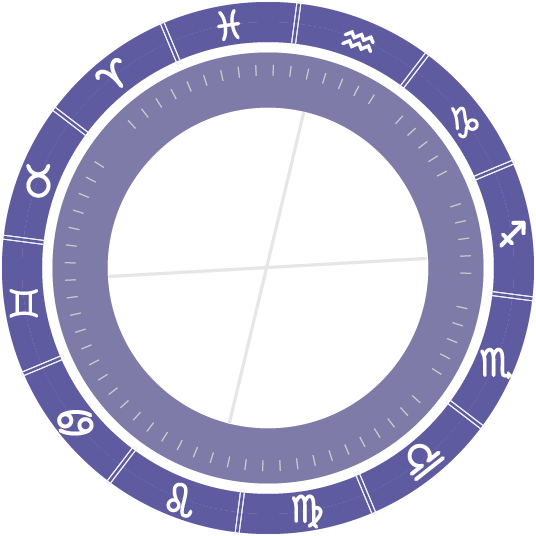
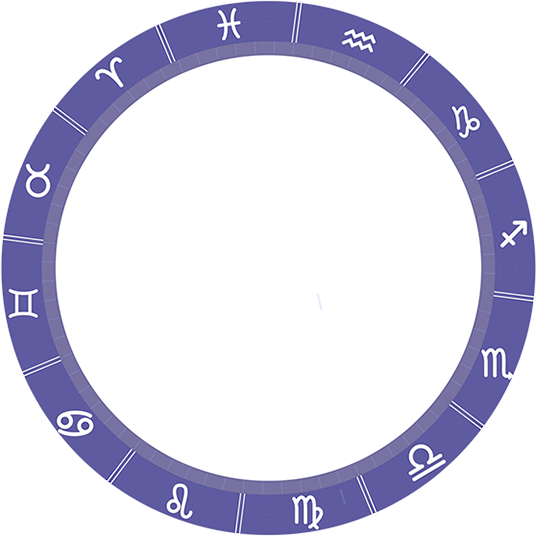
FIX BUG

diff --git a/src/main/java/astro/api/AstroInfo.java b/src/main/java/astro/api/AstroInfo.java
@@ -7,7 +7,9 @@ import java.text.SimpleDateFormat;
 import java.util.ArrayList;
 import java.util.Calendar;
 import java.util.Date;
+import java.util.HashMap;
 import java.util.List;
+import java.util.Map;
 import java.util.TimeZone;
 import java.util.UUID;
 
@@ -44,12 +46,13 @@ public class AstroInfo {
 //			System.out.println( ConfigBean.getLatitude("浙江省  温州市 瑞安市"));
 	
 
-		Date date = f.parse("1983-10-01 22:00:00");
+		Date date = f.parse("1988-10-01 22:00:00");
 		
 		System.out.println(UUID.randomUUID().toString());
 
-		new AstroInfo().parserAstroData(ConfigBean.getLongitude("内蒙古自治区 呼和浩特市 和林格尔县"), ConfigBean.getLatitude("内蒙古自治区 呼和浩特市 和林格尔县"), date);
+	    new AstroInfo().parserAstroData(ConfigBean.getLongitude("内蒙古自治区 呼和浩特市 和林格尔县"), ConfigBean.getLatitude("内蒙古自治区 呼和浩特市 和林格尔县"), date);
 
+		//new AstroInfo().getastroinfo(date, ConfigBean.getLongitude("内蒙古自治区 呼和浩特市 和林格尔县"), ConfigBean.getLatitude("内蒙古自治区 呼和浩特市 和林格尔县"));
 	}
 
 	public AstrologyResult parserAstroData(double longitude, double latitude, Date date) {
@@ -58,11 +61,15 @@ public class AstroInfo {
 		AstrologyResult result = new AstrologyResult();
 
 		List<String> xingxinXinzuoResultList = new ArrayList<String>();
-		List<String> xingxinGonweioResultList = new ArrayList<String>();
+		List<String> gonweiXingzuoResultList = new ArrayList<String>();
+		
+		List<String> xingxinGonweiResultList = new ArrayList<String>();
+
 
 		PlanetInfo pi[];
 		String planets[];
 
+		Map<String, String> gwxzMap = new HashMap<String, String>();
 		String pos[] = new String[12];
 		HousesInfo h = model.getHousesInfo();
 		for (int i1 = 0; i1 < 12; i1++) {
@@ -95,28 +102,27 @@ public class AstroInfo {
 			} else if (index == 12) {
 				g = "十二";
 			}
-
-			xingxinGonweioResultList.add(g + "宫" + ConfigBean.getCnName(pos[i1]));
-			xingxinGonweioResultList.add(g + "宫" + ConfigBean.getCnName(pos[i1])+"座");
-			xingxinGonweioResultList.add(ConfigBean.getCnName(pos[i1]) + g + "宫");
-			xingxinGonweioResultList.add(ConfigBean.getCnName(pos[i1]) + "座" + g + "宫");
+			gonweiXingzuoResultList.add(g + "宫" + ConfigBean.getCnName(pos[i1]) );
+			
+			gwxzMap.put(ConfigBean.getCnName(pos[i1]),g + "宫");
+			
 		}
 
 		pi = model.getPlanets();
 		planets = new String[pi.length];
 		for (int i = 0; i < pi.length; i++) {
 			PlanetInfo info = pi[i];
-			planets[i] = (ConfigBean.getCnName(info.getPlanetName()) + ConfigBean.getCnName(DegreeUtil.format(info.getLongitude(), "P")));
-			
-			
+			String xingzuo = ConfigBean.getCnName(DegreeUtil.format(info.getLongitude(), "P"));
+			String xingxing = ConfigBean.getCnName(info.getPlanetName());
+			planets[i] = xingxing + xingzuo;	
 			xingxinXinzuoResultList.add(planets[i]);
-			
-			xingxinXinzuoResultList.add(ConfigBean.getCnName(info.getPlanetName()) + ConfigBean.getCnName(DegreeUtil.format(info.getLongitude(), "P") + "座"));
-			
-			xingxinXinzuoResultList.add( ConfigBean.getCnName(DegreeUtil.format(info.getLongitude(), "P") + "座" + ConfigBean.getCnName(info.getPlanetName())));
-
-			xingxinXinzuoResultList.add(ConfigBean.getCnName(DegreeUtil.format(info.getLongitude(), "P")) + ConfigBean.getCnName(info.getPlanetName()));
-
+		
+			String gw = gwxzMap.get(xingzuo);
+			if (gw != null) {
+				xingxinGonweiResultList.add(xingxing + gw);
+			}else {
+				System.out.println(xingxing + "的宫位为空");
+			}
 
 		}
 		ChartRender render = new ImageRender();
@@ -124,14 +130,19 @@ public class AstroInfo {
 		render.render(model, fileName);
 
 		result.setFileName(fileName);
-		result.setXingxinGonwei(xingxinGonweioResultList);
+		result.setXingxinGonwei(xingxinGonweiResultList);
 		result.setXingxinXingzuo(xingxinXinzuoResultList);
+		result.setGonweiXingzuo(gonweiXingzuoResultList);
 		
-		for(String r: xingxinGonweioResultList) {
+		for(String r: gonweiXingzuoResultList) {
 			System.out.println(r);
 		}
 
 		for(String r: xingxinXinzuoResultList) {
+			System.out.println(r);
+		}
+		
+		for(String r: xingxinGonweiResultList) {
 			System.out.println(r);
 		}
 		
@@ -307,8 +318,7 @@ public class AstroInfo {
 					aspect.deltaDegree = x[0];
 					aspect.deltaMinute = x[1];
 					planetList.get(j).aspects.add(aspect);
-					sb.append(planetList.get(i).chName + " " + aspectType.getName() + " " + planetList.get(j).chName
-							+ "\n");
+					sb.append(planetList.get(i).chName + " " + aspectType.getName() + " " + planetList.get(j).chName + "\n");
 					// xiangWeiResultList.add(e);
 				}
 			}

diff --git a/src/main/java/com/astrology/ImageRender.java b/src/main/java/com/astrology/ImageRender.java
@@ -77,7 +77,7 @@ public class ImageRender extends DefaultRender
 			drawLine(r5, a2, r6 + 5F, angle, normalStroke, basecolor);
 			//BufferedImage image = getConfig().getImage((new StringBuilder("p")).append(planets[i].getId()).toString());
 			//if (image == null)
-				drawString(ConfigBean.getCnName(planetName), r5, a2, color, font);
+				drawString(ConfigBean.getCnName(planetName).substring(0, 1), r5, a2, color, font);
 			//else
 				//drawImage(image, r5, a2);
 		}
@@ -120,6 +120,9 @@ public class ImageRender extends DefaultRender
 		float r4 = cfg.getFloat("r4", 0.65F);
 		if ((double)r4 < 1.0D)
 			r4 = cx * r4;
+		
+		r3 = 242;
+		r4 = 222;
 		Color basecolor = cfg.getColor("base");
 		Color weakcolor = cfg.getColor("weak");
 		double asc = hi.getAscendant();
@@ -162,10 +165,11 @@ public class ImageRender extends DefaultRender
 				angle2 = thi.get(1);
 			double delta = angle2 - angle;
 			delta = DegreeUtil.fixAngle(delta);
-			drawLine(r3, r4, angle, normalStroke, basecolor);
+			drawLine(r3, r4, angle, normalStroke, new Color(220,238,255));
 //			if (i % 3 != 1)
 //				drawLine(r4, 0.0F, angle, dashStroke, weakcolor);
-			drawString(Integer.toString(i), (r3 + r4) / 2.0F, angle + delta / 2D, cfg.getColor(Constellation.POLLUXS[i - 1]), basefont);
+			drawString(Integer.toString(i), (r3 + r4) / 2.0F, angle + delta / 2D, Color.WHITE, basefont);
+			//drawString(Integer.toString(i), (r3 + r4) / 2.0F, angle + delta / 2D, cfg.getColor(Constellation.POLLUXS[i - 1]), basefont);
 		}
 
 	}

diff --git a/src/main/java/com/astrology/DefaultRender.java b/src/main/java/com/astrology/DefaultRender.java
@@ -222,8 +222,7 @@ public class DefaultRender implements ChartRender {
 						else
 							stroke = boldStroke;
 						Color color = getConfig().getColor(r.name);
-						drawLine(r6, planets[i].getTransferedLongitude(asc), r6, planets[j].getTransferedLongitude(asc),
-								stroke, color);
+						drawLine(r6, planets[i].getTransferedLongitude(asc), r6, planets[j].getTransferedLongitude(asc),stroke,  new Color(220,238,255));
 					}
 				}
 
